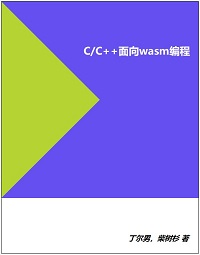
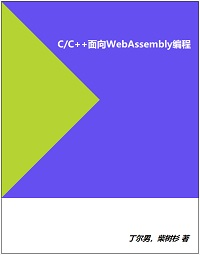
zz

Changed region(s): [[0.27, 0.1373, 0.96, 0.2471]]

diff --git a/README.md b/README.md
@@ -1,4 +1,4 @@
-# C/C++面向wasm编程
+# C/C++面向WebAssembly编程
 
 本书介绍了在工程化应用中使用C/C++进行WebAssembly化开发的方法。关于WebAssembly的基础知识可以参考《WebAssembly标准入门》。
 
